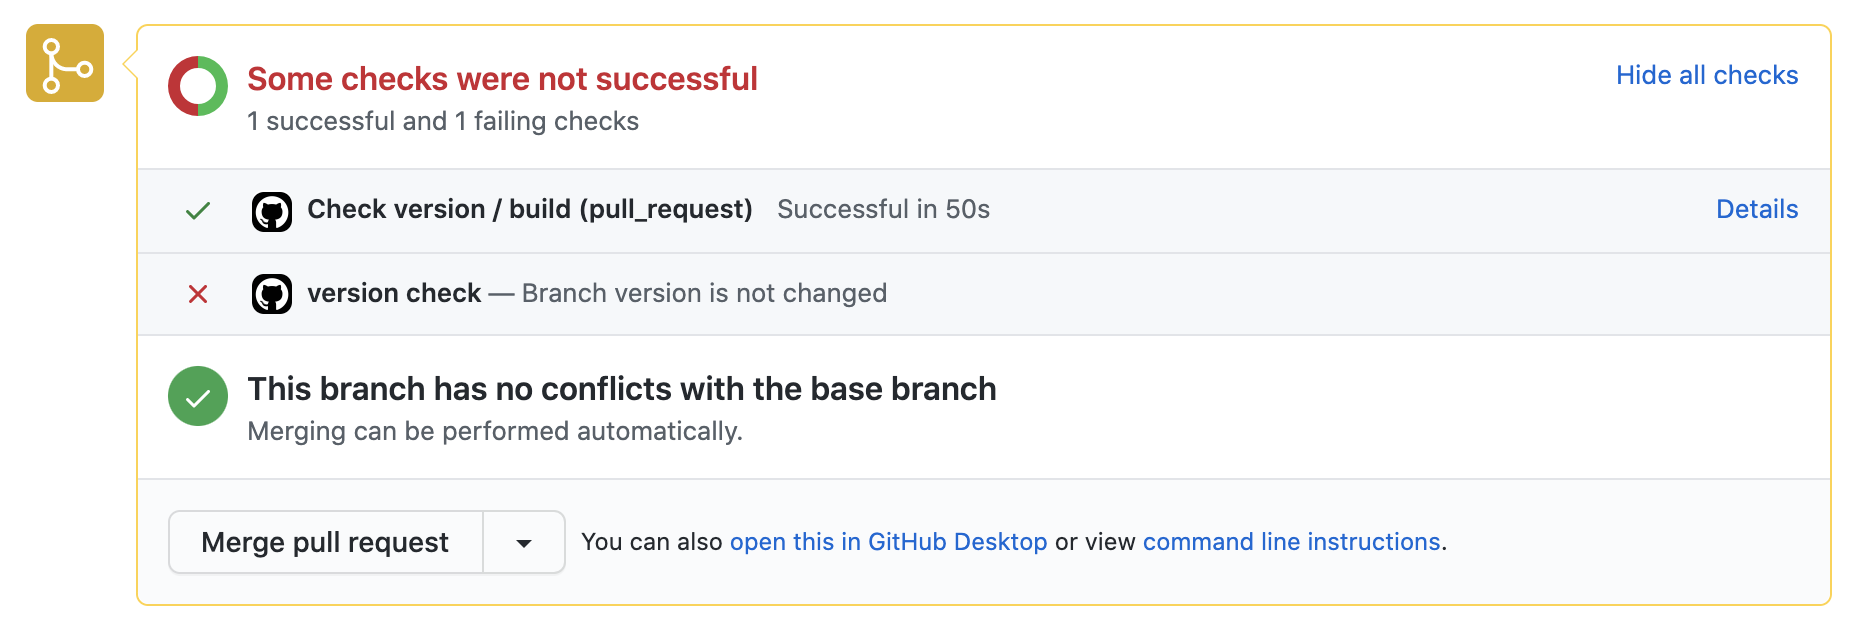
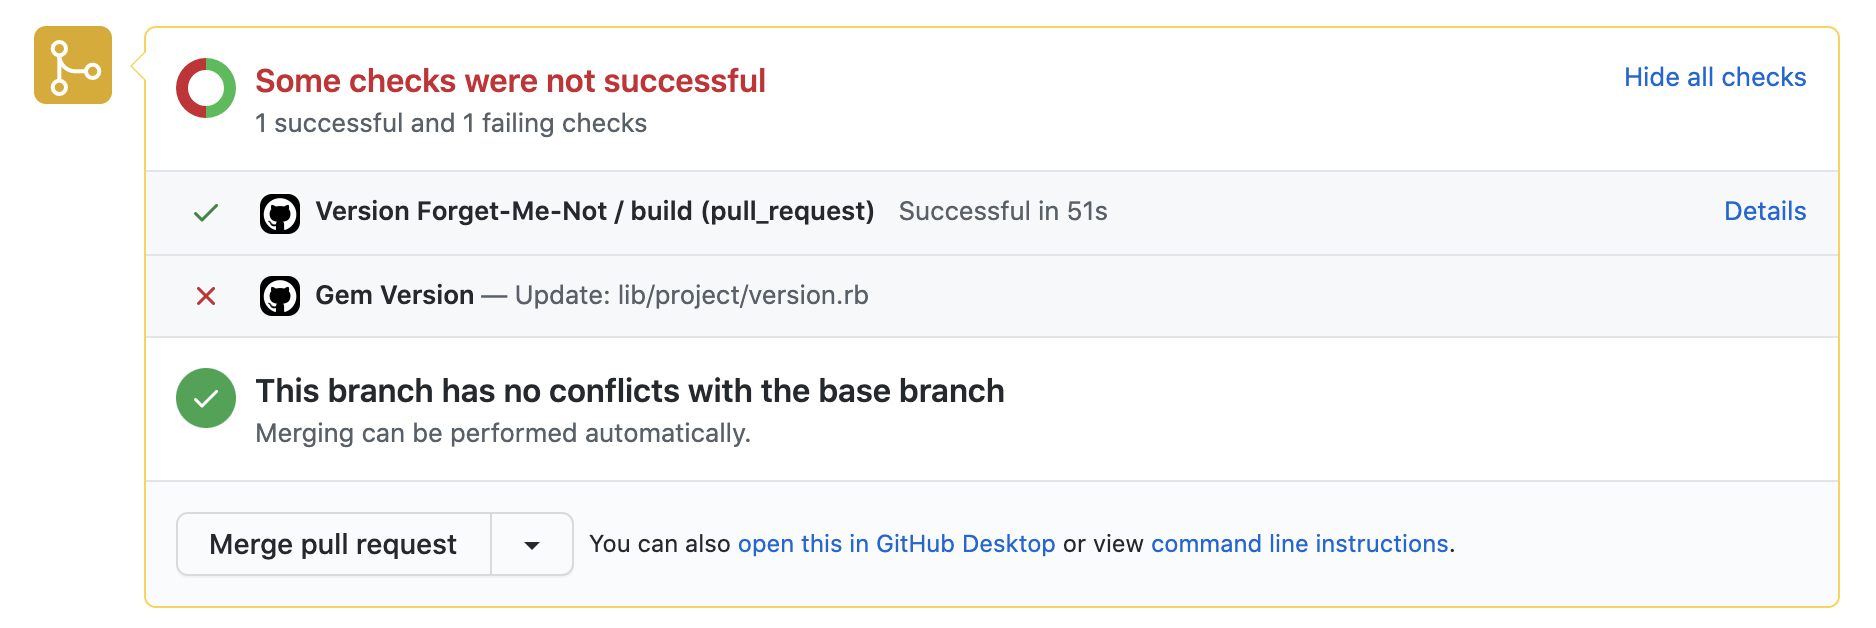
Update README.md and update all images

diff --git a/README.md b/README.md
@@ -1,4 +1,4 @@
-![What it looks like once installation is complete](images/what-it-looks-like.png)
+![What it looks like once installation is complete](images/what-it-looks-like-failing.png)
 
 # Version Forget-Me-Not
 
